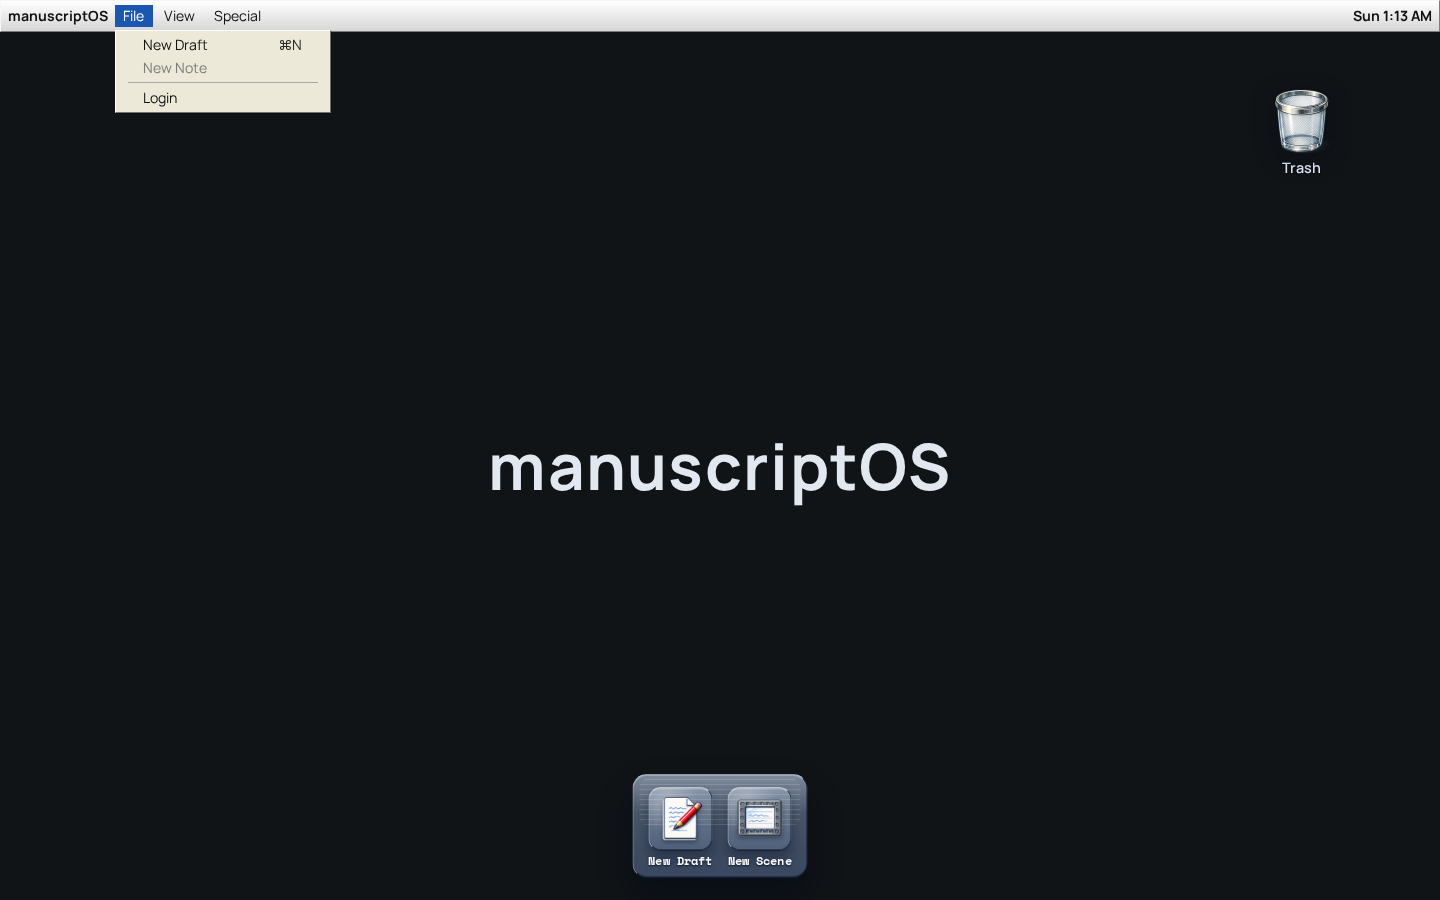
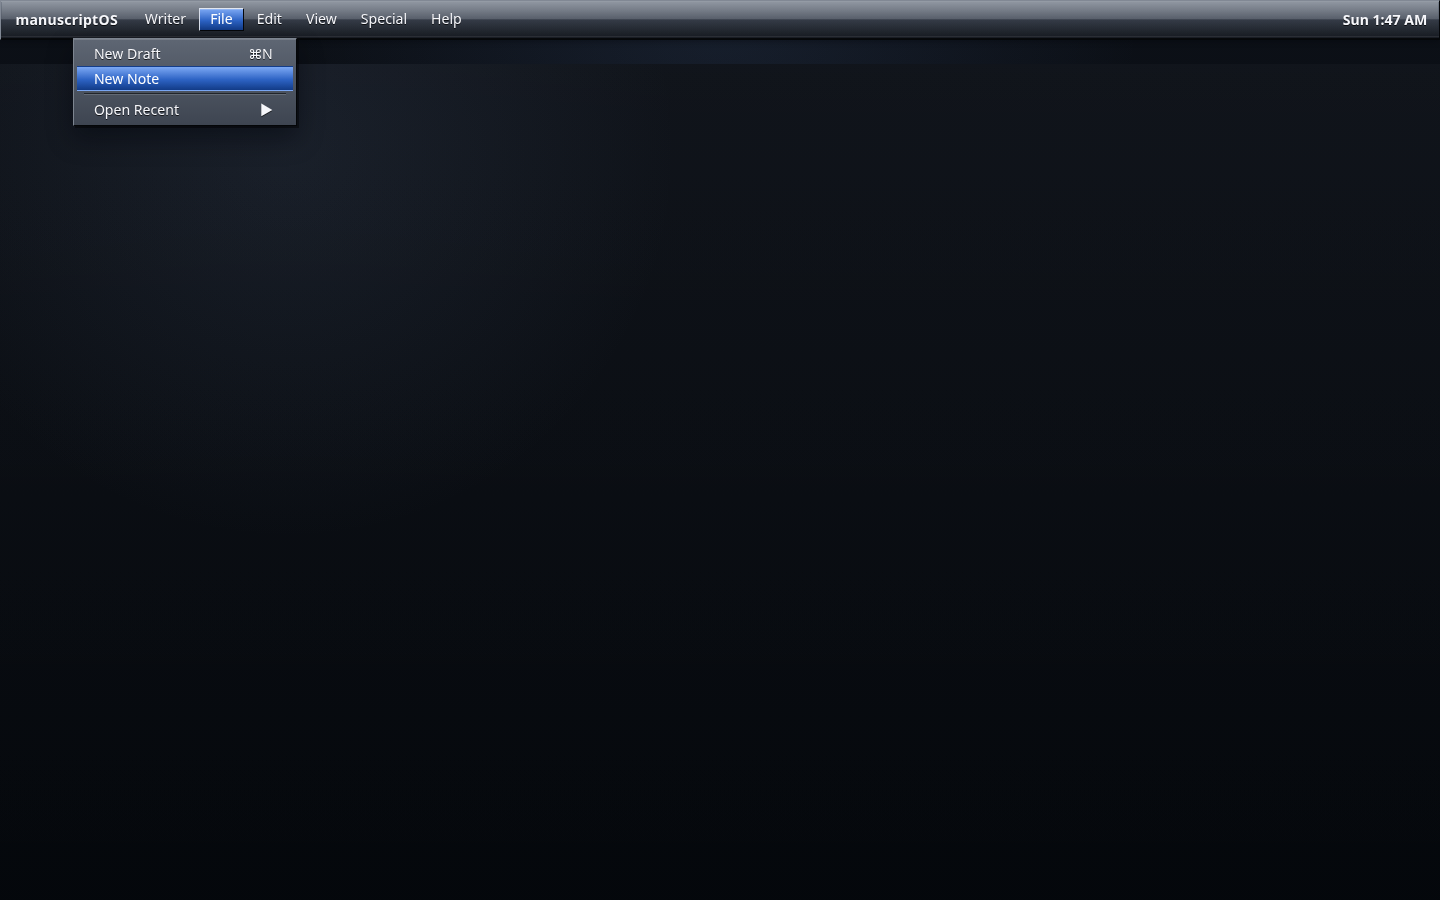
Restyle menu bar with dark retro chrome

diff --git a/app/assets/stylesheets/_ig_menu.scss b/app/assets/stylesheets/_ig_menu.scss
@@ -102,47 +102,106 @@
   display: grid;
   grid-template-columns: auto 1fr auto;
   align-items: center;
-  gap: 0.4rem;
+  gap: 0.55rem;
   min-height: 2rem;
-  padding: 0.18rem 0.45rem;
-  border-top: 1px solid #f6f6f6;
-  border-left: 1px solid #f6f6f6;
-  border-right: 1px solid #7c7c7c;
-  border-bottom: 1px solid #7c7c7c;
-  background: linear-gradient(180deg, #ffffff 0%, #d6d6d6 100%);
-  color: #111111;
+  padding: 0.16rem 0.45rem 0.2rem;
+  border-top: 1px solid #818894;
+  border-left: 1px solid #818894;
+  border-right: 1px solid #05070a;
+  border-bottom: 1px solid #05070a;
+  background:
+    linear-gradient(180deg, #78808d 0%, #535a66 48%, #2f3642 49%, #171b22 100%);
+  color: #f6f7fb;
   font-family: "Chicago", v.$font-ig-sans;
   font-size: 0.88rem;
   line-height: 1.1;
-  box-shadow: 0 1px 0 rgba(255, 255, 255, 0.72) inset;
+  box-shadow:
+    0 1px 0 rgba(255, 255, 255, 0.22) inset,
+    0 -1px 0 rgba(0, 0, 0, 0.68) inset,
+    0 1px 6px rgba(3, 5, 10, 0.4);
+}
+
+.ig-global-menu-bar::before {
+  content: "";
+  position: absolute;
+  inset: 1px 1px auto 1px;
+  height: calc(100% - 3px);
+  pointer-events: none;
+  background: linear-gradient(180deg, rgba(255, 255, 255, 0.18) 0%, rgba(255, 255, 255, 0.03) 46%, rgba(0, 0, 0, 0.08) 100%);
+}
+
+.ig-global-menu-bar::after {
+  content: "";
+  position: absolute;
+  left: 0;
+  right: 0;
+  bottom: 2px;
+  height: 1px;
+  pointer-events: none;
+  background: rgba(255, 255, 255, 0.08);
+}
+
+.ig-global-menu-bar__brand,
+.ig-global-menu-bar__status,
+.ig-global-menu-bar__menus,
+.ig-global-menu-bar__dropdown-layer {
+  position: relative;
+  z-index: 1;
 }
 
 .ig-global-menu-bar__brand,
 .ig-global-menu-bar__status {
   white-space: nowrap;
   font-weight: 700;
+  text-shadow: 0 1px 0 rgba(0, 0, 0, 0.72);
+}
+
+.ig-global-menu-bar__brand {
+  padding: 0 0.45rem;
+  letter-spacing: 0.02em;
+}
+
+.ig-global-menu-bar__status {
+  padding-right: 0.28rem;
 }
 
 .ig-global-menu-bar__menus {
   display: flex;
   align-items: center;
-  gap: 0.1rem;
+  gap: 0.14rem;
 }
 
 .ig-global-menu-bar__menu {
   appearance: none;
-  border: 0;
-  padding: 0.2rem 0.55rem;
+  border: 1px solid transparent;
+  padding: 0.18rem 0.62rem 0.22rem;
   background: transparent;
   color: inherit;
   font: inherit;
+  line-height: 1;
   border-radius: 0;
+  text-shadow: 0 1px 0 rgba(0, 0, 0, 0.72);
 }
 
-.ig-global-menu-bar__menu.is-open,
-.ig-global-menu-bar__menu:hover {
-  background: #1b57b1;
+.ig-global-menu-bar__menu:hover,
+.ig-global-menu-bar__menu:focus-visible {
+  outline: none;
+  border-top-color: rgba(255, 255, 255, 0.28);
+  border-left-color: rgba(255, 255, 255, 0.24);
+  border-right-color: rgba(0, 0, 0, 0.64);
+  border-bottom-color: rgba(0, 0, 0, 0.64);
+  background: linear-gradient(180deg, rgba(255, 255, 255, 0.18) 0%, rgba(255, 255, 255, 0.03) 100%);
+}
+
+.ig-global-menu-bar__menu.is-open {
+  border-top-color: #e2e6ef;
+  border-left-color: #d8deea;
+  border-right-color: #05070a;
+  border-bottom-color: #05070a;
+  background: linear-gradient(180deg, #7ca8f4 0%, #2d63c4 55%, #123b87 100%);
   color: #ffffff;
+  text-shadow: none;
+  box-shadow: 0 1px 0 rgba(255, 255, 255, 0.18) inset;
 }
 
 .ig-global-menu-bar__dropdown-layer {
@@ -157,12 +216,15 @@
 .ig-global-menu-bar__submenu {
   min-width: 13.5rem;
   padding: 0.18rem;
-  border-top: 1px solid #ffffff;
-  border-left: 1px solid #ffffff;
-  border-right: 1px solid #717171;
-  border-bottom: 1px solid #717171;
-  background: #ece9d8;
-  box-shadow: 1px 1px 0 rgba(0, 0, 0, 0.18);
+  border-top: 1px solid #7d8590;
+  border-left: 1px solid #7d8590;
+  border-right: 1px solid #040608;
+  border-bottom: 1px solid #040608;
+  background: linear-gradient(180deg, #5e6673 0%, #3e4551 100%);
+  box-shadow:
+    0 1px 0 rgba(255, 255, 255, 0.16) inset,
+    2px 2px 0 rgba(0, 0, 0, 0.42),
+    0 12px 24px rgba(3, 5, 10, 0.45);
   pointer-events: auto;
 }
 
@@ -184,24 +246,31 @@
   align-items: center;
   justify-content: space-between;
   gap: 1rem;
-  border: 0;
+  border: 1px solid transparent;
   background: transparent;
-  color: #111111;
-  padding: 0.22rem 1.6rem 0.22rem 1.5rem;
+  color: #f6f7fb;
+  padding: 0.22rem 1.2rem 0.22rem 1rem;
   font: inherit;
   text-align: left;
+  text-shadow: 0 1px 0 rgba(0, 0, 0, 0.7);
 }
 
 .ig-global-menu-bar__item:hover:not(:disabled),
 .ig-global-menu-bar__item:focus-visible {
-  background: #1b57b1;
+  background: linear-gradient(180deg, #7ca8f4 0%, #2d63c4 55%, #123b87 100%);
   color: #ffffff;
   outline: none;
+  text-shadow: none;
 }
 
 .ig-global-menu-bar__item.is-disabled,
 .ig-global-menu-bar__item:disabled {
-  color: #7c7c7c;
+  color: #a4aab3;
+}
+
+.ig-global-menu-bar__item.is-disabled .ig-global-menu-bar__item-label,
+.ig-global-menu-bar__item:disabled .ig-global-menu-bar__item-label {
+  opacity: 0.72;
 }
 
 .ig-global-menu-bar__item--submenu {
@@ -221,9 +290,10 @@
 }
 
 .ig-global-menu-bar__separator {
-  height: 1px;
-  margin: 0.2rem 0.6rem;
-  background: #a8a8a8;
+  height: 2px;
+  margin: 0.16rem 0.45rem;
+  background:
+    linear-gradient(180deg, rgba(0, 0, 0, 0.55) 0%, rgba(0, 0, 0, 0.55) 50%, rgba(255, 255, 255, 0.14) 50%, rgba(255, 255, 255, 0.14) 100%);
 }
 
 .ig-global-menu-bar__submenu {